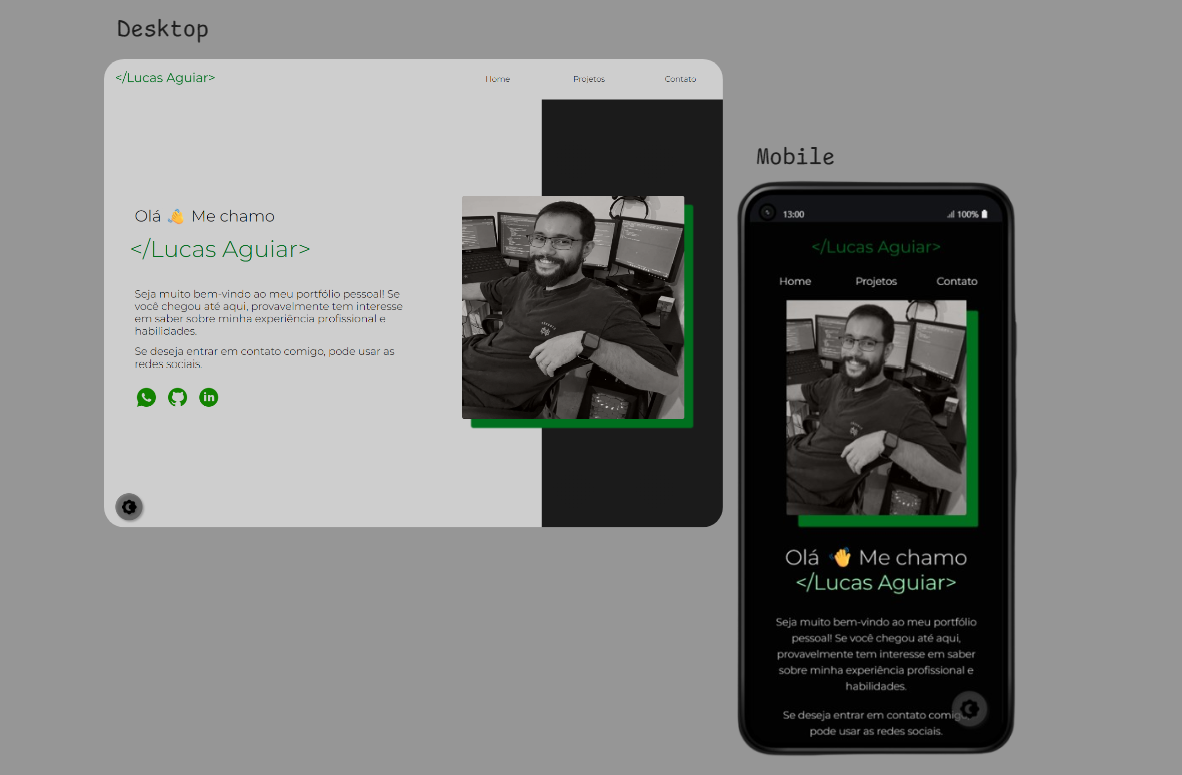
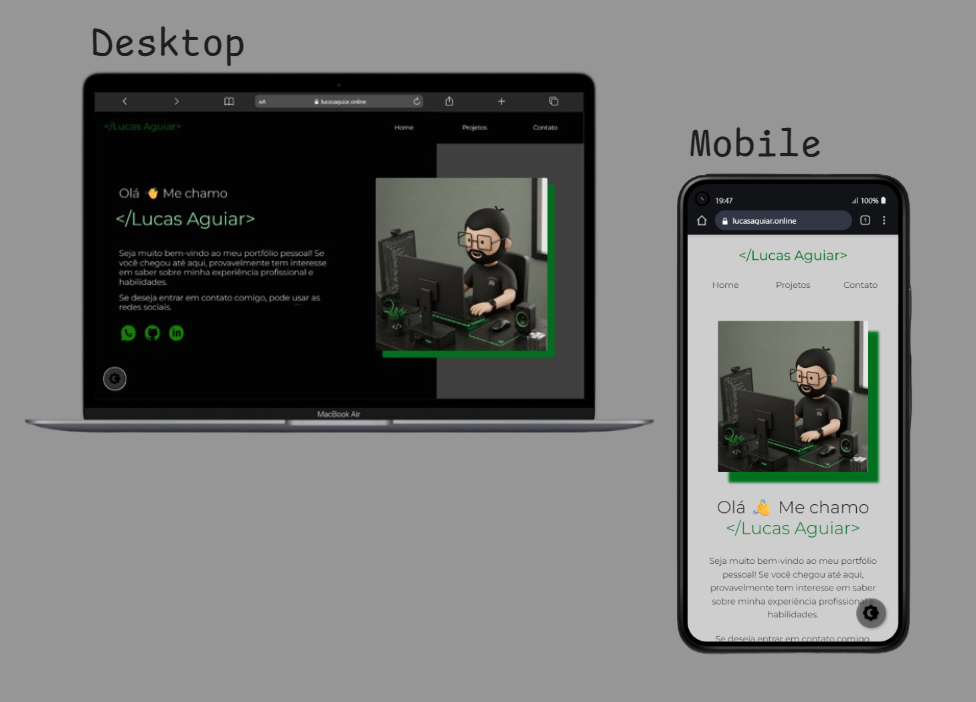
[ATT]: Atualizando o README.md

diff --git a/public/index.html b/public/index.html
@@ -37,7 +37,7 @@
 
       <section id="home" class="sessao-home">
         <div class="home-imagem fade-in">
-          <img src="./assets/images/geral/avatar-perfil.jpg" alt="imagem-perfil"  class="imagem-perfil pulsar-sombra">
+          <img src="./assets/images/geral/mini-luccas.png" alt="imagem-perfil"  class="imagem-perfil pulsar-sombra">
         </div>
 
         <div class="home-texto fade-in">
@@ -74,7 +74,7 @@
               <h3>Em Desenvolvimento</h3>
               <div class="card-imagem-container">
                 <img src="./assets/images/geral/loading.gif" alt="loading" class="loading-gif">
-                <img src="./assets/images/geral/projeto.png" alt="imagem-projeto" class="card-imagem">
+                <img src="./assets/images/geral/neutro_projetos.png" alt="imagem-projeto" class="card-imagem">
               </div>
             </div>
             <div class="card-descricao">
